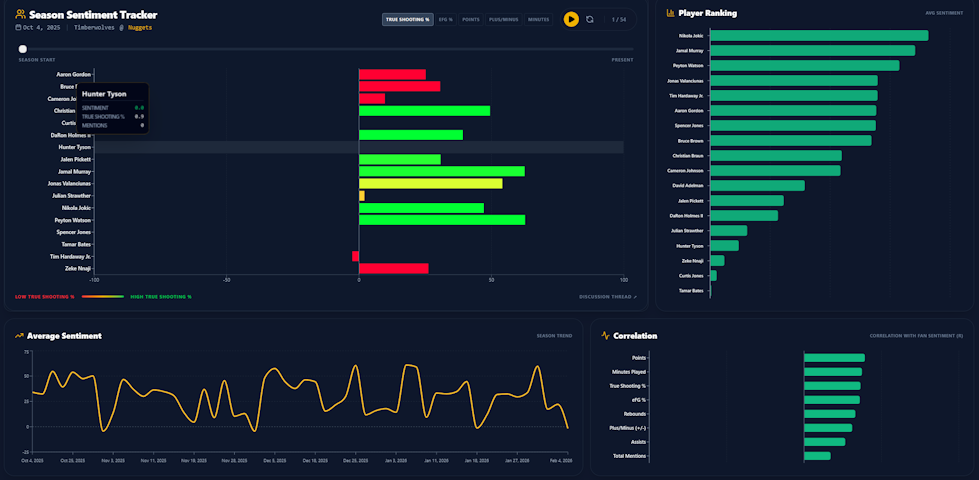
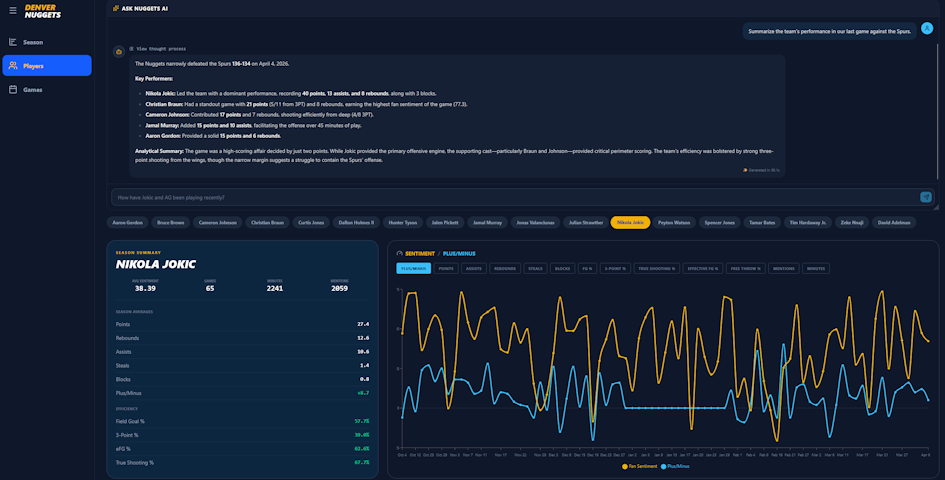
Updated nba dashboard with chat feature

Changed region(s): [[0.0, 0.0, 1.0, 1.0], [0.3683, 0.0, 0.6138, 0.0625]]

diff --git a/_portfolio/025nuggetsdashboard.html b/_portfolio/025nuggetsdashboard.html
@@ -27,7 +27,163 @@ collection: portfolio
     <li><strong>API Layer:</strong> AWS AppSync (GraphQL) for real-time data fetching and subscription capabilities.</li>
     <li><strong>Database:</strong> AWS DynamoDB designed with single-table architecture for efficient querying of time-series data.</li>
     <li><strong>Backend Processing:</strong> Automated Python scripts to scrape Reddit and call Gemini's Gemma 3 27B model for one-shot sentiment analysis.</li>
+    <li><strong>Agentic AI Chat:</strong> Websocket connection between users and an AWS Lambda which performs RAG (retrieval augmented generation) with the Gemma 4 31B model.</li>
 </ul>
+
+
+<style>
+  .ai-carousel-wrapper {
+    position: relative;
+    width: 100%;
+    max-width: 1200px; 
+    height: 600px; 
+    margin: 0 auto 2rem auto;
+    background-color: #0f172a;
+    border: 1px solid #334155;
+    border-radius: 12px;
+    overflow: hidden;
+    box-shadow: 0 10px 15px -3px rgba(0, 0, 0, 0.5);
+  }
+  
+  .ai-slide {
+    position: absolute;
+    top: 0;
+    left: 0;
+    width: 100%;
+    height: 100%;
+    object-fit: contain; 
+    opacity: 0;
+    transition: opacity 0.8s ease-in-out; /* Slightly faster fade for manual clicking */
+    z-index: 1;
+  }
+  
+  .ai-slide.active {
+    opacity: 1;
+    z-index: 2;
+  }
+
+  /* Styling for the Navigation Buttons */
+  .ai-nav-btn {
+    position: absolute;
+    top: 50%;
+    transform: translateY(-50%);
+    background-color: rgba(15, 23, 42, 0.7);
+    color: white;
+    border: 1px solid #334155;
+    cursor: pointer;
+    padding: 12px 16px;
+    font-size: 18px;
+    border-radius: 50%;
+    z-index: 10;
+    transition: all 0.2s ease;
+    display: flex;
+    align-items: center;
+    justify-content: center;
+  }
+
+  .ai-nav-btn:hover {
+    background-color: #38bdf8; /* Uses your existing Tailwind sky-400 blue */
+    color: #0f172a;
+  }
+
+  .ai-prev {
+    left: 10px;
+  }
+
+  .ai-next {
+    right: 10px;
+  }
+</style>
+
+<h3>Agentic RAG Chat Feature</h3>
+<ul>
+    <li>This feature allows users to ask complex questions that are answered by combining real-time data retrieval with generative AI capabilities.</li>
+    <li>Includes <strong>conversation history</strong> and context-aware responses, making it possible to have a dynamic dialogue about Nuggets performance and fan sentiment trends.</li>
+    <li>Shows <strong>thought process</strong> and tool calls for transparency, allowing users to understand how the AI arrived at its conclusions.</li>
+</ul>
+
+
+<p>
+  Explore examples of the chat feature below, or try it yourself above.
+</p>
+
+<div class="ai-carousel-wrapper" id="aiChatCarousel">
+  <button class="ai-nav-btn ai-prev" id="aiPrevBtn">&#10094;</button>
+  <button class="ai-nav-btn ai-next" id="aiNextBtn">&#10095;</button>
+  <img src="/images/nuggetschat/chat1.png" alt="Chat Example 1" class="ai-slide active">
+  <img src="/images/nuggetschat/chat2.png" alt="Chat Example 2" class="ai-slide">
+  <img src="/images/nuggetschat/chat3.png" alt="Chat Example 3" class="ai-slide">
+  <img src="/images/nuggetschat/chat4.png" alt="Chat Example 4" class="ai-slide">
+  <img src="/images/nuggetschat/chat5.png" alt="Chat Example 5" class="ai-slide">
+  <img src="/images/nuggetschat/chat6.png" alt="Chat Example 6" class="ai-slide">
+  <img src="/images/nuggetschat/chat7.png" alt="Chat Example 7" class="ai-slide">
+  <img src="/images/nuggetschat/chat8.png" alt="Chat Example 8" class="ai-slide">
+  <img src="/images/nuggetschat/chat9.png" alt="Chat Example 9" class="ai-slide">
+  <!-- <img src="/images/nuggetschat/chat10.png" alt="Chat Example 10" class="ai-slide">
+  <img src="/images/nuggetschat/chat11.png" alt="Chat Example 11" class="ai-slide">
+  <img src="/images/nuggetschat/chat12.png" alt="Chat Example 12" class="ai-slide">
+  <img src="/images/nuggetschat/chat13.png" alt="Chat Example 13" class="ai-slide">
+  <img src="/images/nuggetschat/chat14.png" alt="Chat Example 14" class="ai-slide"> -->
+</div>
+
+<script>
+  document.addEventListener('DOMContentLoaded', () => {
+    const slides = document.querySelectorAll('#aiChatCarousel .ai-slide');
+    const prevBtn = document.getElementById('aiPrevBtn');
+    const nextBtn = document.getElementById('aiNextBtn');
+    let currentIndex = 0;
+    let autoPlayInterval;
+
+    // Function to handle switching slides
+    function goToSlide(index) {
+      // Remove active class from current
+      slides[currentIndex].classList.remove('active');
+      
+      // Update index
+      currentIndex = index;
+      
+      // Handle array wrapping (looping from end to start and vice versa)
+      if (currentIndex >= slides.length) currentIndex = 0;
+      if (currentIndex < 0) currentIndex = slides.length - 1;
+      
+      // Add active class to new slide
+      slides[currentIndex].classList.add('active');
+    }
+
+    // Function to move to the next slide automatically
+    function startAutoPlay() {
+      // Clear any existing timer first to prevent speeding up
+      stopAutoPlay(); 
+      autoPlayInterval = setInterval(() => {
+        goToSlide(currentIndex + 1);
+      }, 5000); // 5 seconds is usually better when giving users time to read
+    }
+
+    function stopAutoPlay() {
+      clearInterval(autoPlayInterval);
+    }
+
+    // Event Listeners for Manual Controls
+    nextBtn.addEventListener('click', () => {
+      goToSlide(currentIndex + 1);
+      startAutoPlay(); // Reset timer so it doesn't instantly jump again
+    });
+
+    prevBtn.addEventListener('click', () => {
+      goToSlide(currentIndex - 1);
+      startAutoPlay(); // Reset timer
+    });
+
+    // Optional: Pause auto-play when user hovers their mouse over the image
+    const carouselWrapper = document.getElementById('aiChatCarousel');
+    carouselWrapper.addEventListener('mouseenter', stopAutoPlay);
+    carouselWrapper.addEventListener('mouseleave', startAutoPlay);
+
+    // Initialize the auto-playing timer
+    startAutoPlay();
+  });
+</script>
+
 
 <p>
     Full code repository available on <a href="https://github.com/florianfrick/nuggets-sentiment-dashboard">GitHub</a>.
